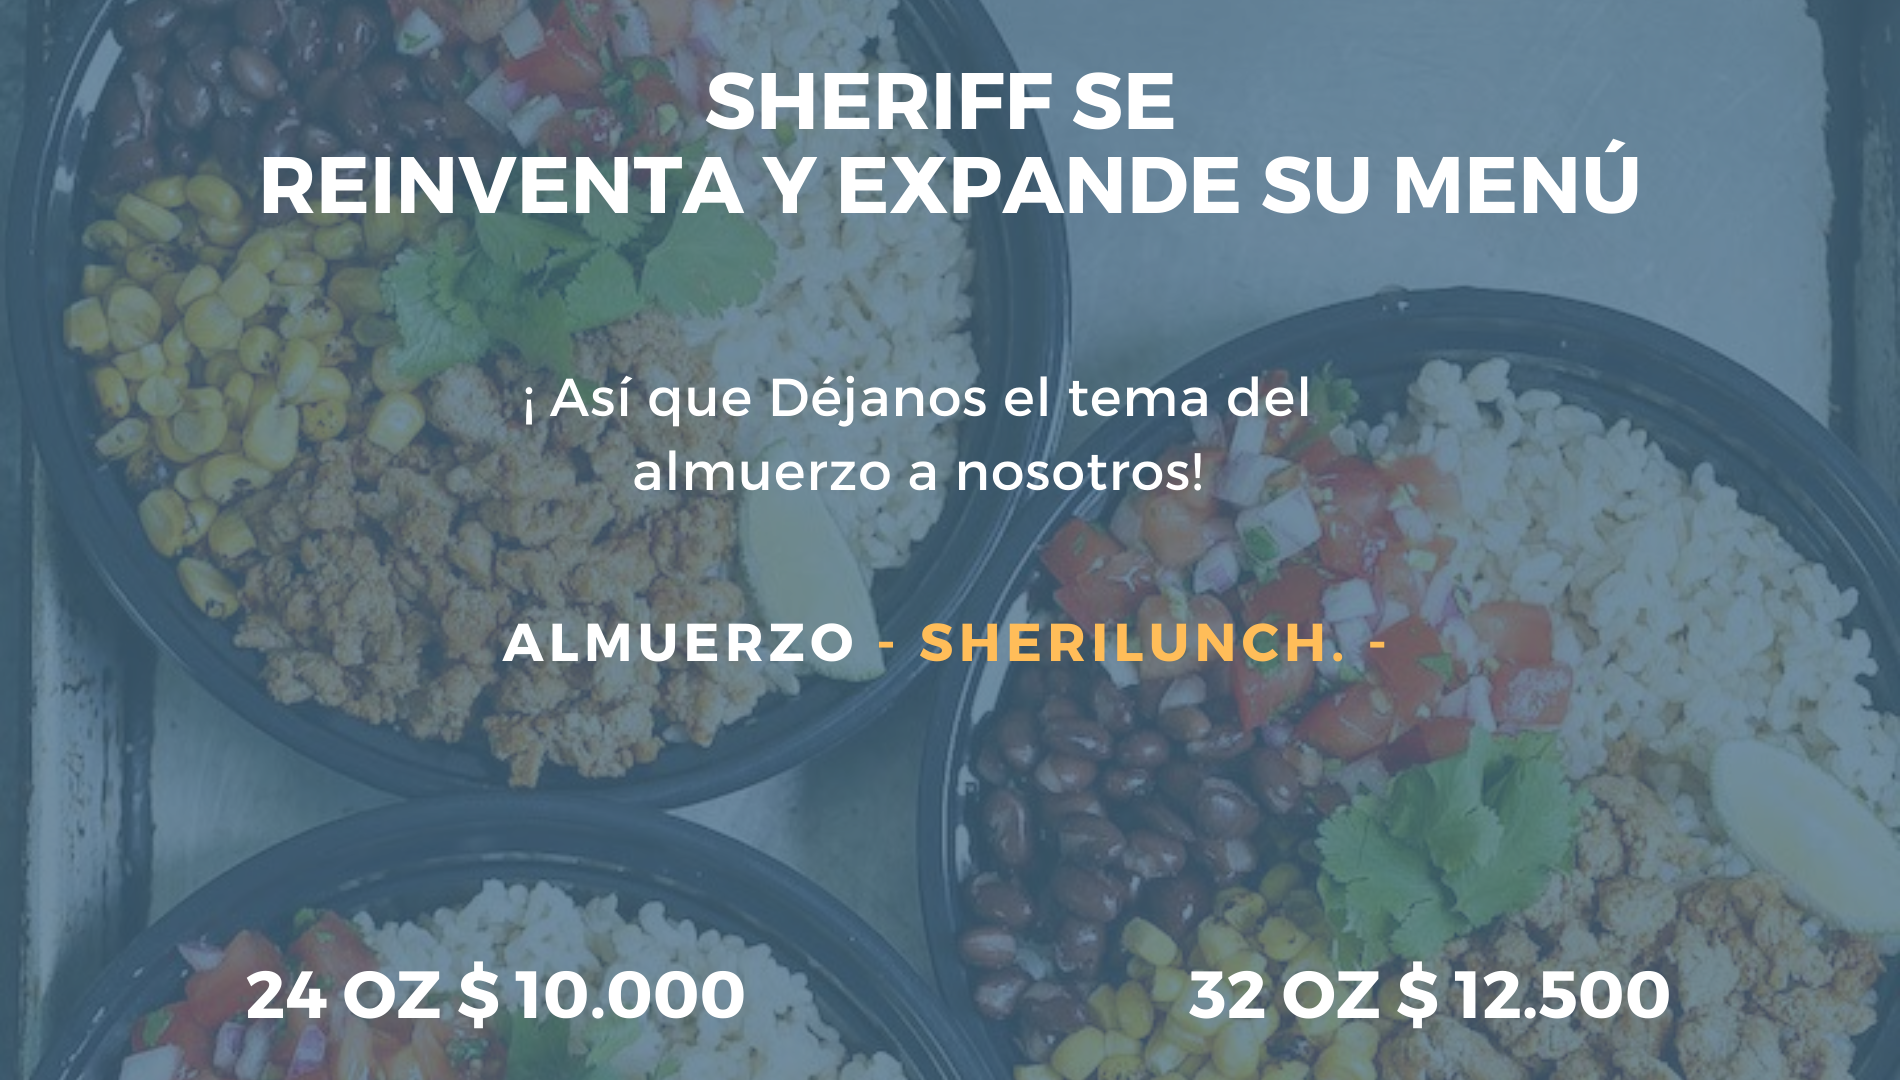
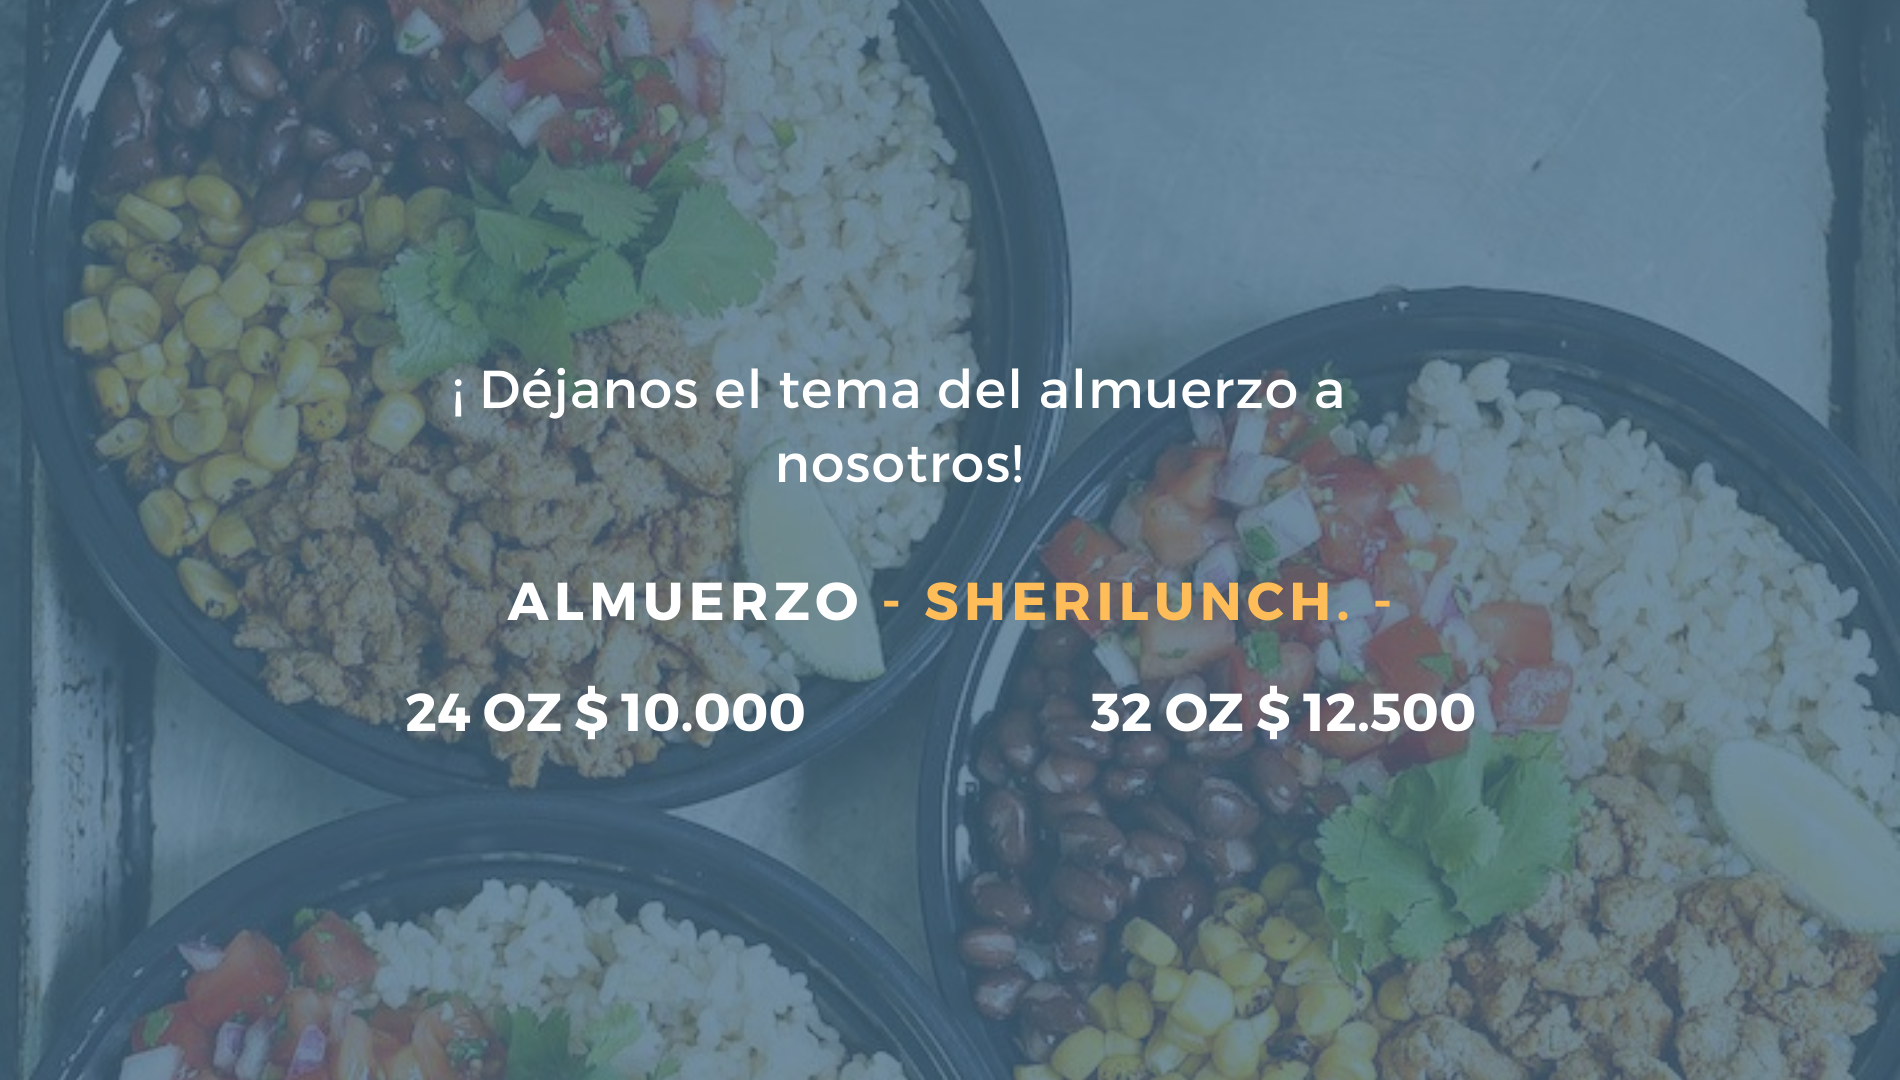
formulario y json de datos

diff --git a/js/main.js b/js/main.js
@@ -1,3 +1,8 @@
+//Importamos el Archivo tipo JSON 
+var menu=JSON.parse(menu)
+menu_diario=menu.menu
+console.log(menu_diario.d14052020)
+
 console.log('here')
 var dias = ["Lunes", "Martes", "Miercoles","Jueves","Viernes","Sábado","Domingo"];
 var meses=["Enero","Febrero","Marzo","Abril","Mayo","Junio","Julio","Agosto","Septiembre","Octubre","Noviembre","Diciembre"]
@@ -57,6 +62,22 @@ if(today_hora >= 10){
 
     $("#cuenta-atras").append(`Puedes hacer tu pedido para mañana hasta las 10 AM`)
     document.getElementById("dia").innerHTML = dias[tomorrow_day_week] +" " + tomorrow_d + " de " + meses[tomorrow_m-1] + " de " + tomorrow_y;
+
+    //Formatear los números para encontrar el menú
+
+    // escogemos el menu de mañana
+    var tomorrow_json=formDateToSearch(tomorrow_y,tomorrow_m,tomorrow_d)
+
+    console.log(menu_diario[tomorrow_json])
+    // imprimir el ménu diario
+    Opcion1titulo=menu_diario[tomorrow_json]['opcion1']['titulo']
+    Opcion2titulo=menu_diario[tomorrow_json]['opcion2']['titulo']
+    Opcion1ingredientes=menu_diario[tomorrow_json]['opcion1']['ingredientes']
+    Opcion2ingredientes=menu_diario[tomorrow_json]['opcion2']['ingredientes']
+   
+    imprimirMenúDiario(Opcion1titulo,Opcion2titulo,Opcion1ingredientes,Opcion2ingredientes)
+
+
 }
 
 else{
@@ -87,8 +108,23 @@ else{
       
 }, 1000);
 
-    $("#cuenta-atras").append(`Aun puedes hacer tu pedido para hoy hasta las 10 AM`)
+    $("#cuenta-atras").append(`Aún puedes hacer tu pedido para hoy hasta las 10 AM`)
     document.getElementById("dia").innerHTML = dias[today_day_week] +" " + today_d + " de " + meses[today_m-1] + " de " + today_y;
+
+    // escogemos el menu de hoy
+
+
+    var today_json=formDateToSearch(today_y,today_m,today_d)
+
+    console.log(menu_diario[today_json])
+    // imprimir el ménu diario
+    Opcion1titulo=menu_diario[today_json]['opcion1']['titulo']
+    Opcion2titulo=menu_diario[today_json]['opcion2']['titulo']
+    Opcion1ingredientes=menu_diario[today_json]['opcion1']['ingredientes']
+    Opcion2ingredientes=menu_diario[today_json]['opcion2']['ingredientes']
+   
+    imprimirMenúDiario(Opcion1titulo,Opcion2titulo,Opcion1ingredientes,Opcion2ingredientes)
+
 }
 
 
@@ -121,3 +157,43 @@ $(function() {
   });
 
 
+function imprimirMenúDiario(tituloOp1,tituloOp2,ingredientesOp1,ingredientesOp2){
+
+    $('#op1titulo').empty()
+    $('#op2titulo').empty()
+    $('#ingredientesOp1').empty()
+    $('#ingredientesOp2').empty()
+    $('#op1titulo').append(tituloOp1)
+    $('#op2titulo').append(tituloOp2)
+
+
+    ingredientesOp1.forEach(function(item){
+        $('#ingredientesOp1').append(`<li class="list-group-item">${item}</li>`)
+    })
+    ingredientesOp2.forEach(function(item){
+        $('#ingredientesOp2').append(`<li class="list-group-item">${item}</li>`)
+    })
+
+}
+
+function formDateToSearch(date_year,date_month,date_day){
+    date_year.toString()
+    if (date_month<10){
+        //agregar un cero
+        date_month.toString()
+        date_month= "0"+date_month
+    }
+    else{
+        date_month.toString()
+    }
+
+    if (date_day<10){
+        //agregar un cero
+        date_day.toString()
+        date_day= "0"+date_day
+    }
+    else{
+        date_day.toString()
+    }
+    return(`d${date_day}${date_month}${date_year}`)
+}

diff --git a/index.html b/index.html
@@ -66,17 +66,17 @@
           </div>
         </div>
         <!-- Slide Two - Set the background image for this slide in the line below -->
-        <div class="carousel-item" style="background-image: url('http://placehold.it/1900x1080')">
+        <div class="carousel-item" style="background-image: url('./assets/img/hamburgesas.png')">
           <div class="carousel-caption d-none d-md-block">
-            <h3>Second Slide</h3>
-            <p>This is a description for the second slide.</p>
+            <h3>Nuestras Hamburguesas</h3>
+            <p>Sheriff y Billy.</p>
           </div>
         </div>
         <!-- Slide Three - Set the background image for this slide in the line below -->
-        <div class="carousel-item" style="background-image: url('http://placehold.it/1900x1080')">
+        <div class="carousel-item" style="background-image: url('./assets/img/perros.png')">
           <div class="carousel-caption d-none d-md-block">
-            <h3>Third Slide</h3>
-            <p>This is a description for the third slide.</p>
+            <h3>Pide Nuestros Perros</h3>
+            <p>para un pequeño antojo.</p>
           </div>
         </div>
       </div>
@@ -120,9 +120,9 @@
         <div class="card h-100">
           <h4 class="card-header" style="background-color: #FDBC5A;">Opción 1 </h4>
           <div class="card-body">
-            <h5>Pollo en salsa de champiñones</h5>
+            <h5 id="op1titulo">Pollo en salsa de champiñones</h5>
             <p class="card-text">Ingredientes</p>
-            <ul class="list-group list-group-flush">
+            <ul class="list-group list-group-flush" id="ingredientesOp1" >
               <li class="list-group-item">Pollo en salsa de champiñon</li>
               <li class="list-group-item">Maíz</li>
               <li class="list-group-item">Aguacate</li>
@@ -137,9 +137,9 @@
         <div class="card h-100">
           <h4 class="card-header"style="background-color: #FDBC5A;">Opción 2 </h4>
           <div class="card-body">
-            <h5>Carne de Res a la parrilla</h5>
+            <h5 id="op2titulo">Carne de Res a la parrilla</h5>
             <p class="card-text">Ingredientes</p>
-            <ul class="list-group list-group-flush">
+            <ul class="list-group list-group-flush" id="ingredientesOp2">
               <li class="list-group-item">Carne de Res</li>
               <li class="list-group-item">Maíz</li>
               <li class="list-group-item">Aguacate</li>
@@ -234,6 +234,7 @@
 
   <!-- Bootstrap core JavaScript -->
   <script src="vendor/jquery/jquery.min.js"></script>
+  <script src="./menu/almuerzos.js"></script>
   <script src="./js/main.js"></script>
   <script src="vendor/bootstrap/js/bootstrap.bundle.min.js"></script>
 

diff --git a/menu/almuerzos.js b/menu/almuerzos.js
@@ -1,0 +1,65 @@
+// http://www.objgen.com/json?demo=true
+// // Empezamos a definir el json de almuerzos
+// menu
+//   13-05-2020
+//     opcion1
+//       titulo= Pechuga a la plancha
+//       ingredientes []= pechuga,arroz,maiz,queso
+//     opcion2
+//       titulo= Carne a la plancha
+//       ingredientes []= pechuga,arroz,maiz,queso
+
+//   14-05-2020
+//     opcion1
+//       titulo= Pechuga a la pizaiola
+//       ingredientes []= pechuga,arroz,maiz,queso
+//     opcion2
+//       titulo= Carne a la pizaiola
+//       ingredientes []= pechuga,arroz,maiz,queso
+
+var menu= `{
+    "menu": {
+      "d13052020": {
+        "opcion1": {
+          "titulo": "Pechuga a la plancha",
+          "ingredientes": [
+            "pechuga",
+            "arroz",
+            "maiz",
+            "queso"
+          ]
+        },
+        "opcion2": {
+          "titulo": "Carne a la plancha",
+          "ingredientes": [
+            "pechuga",
+            "arroz",
+            "maiz",
+            "queso"
+          ]
+        }
+      },
+      "d14052020": {
+        "opcion1": {
+          "titulo": "Pollo en salsa de champiñon",
+          "ingredientes": [
+            "Pollo en salsa de champiñon",
+            "Maíz",
+            "Aguacate",
+            "Papas Cabello de ángel",
+            "Arroz blanco"
+          ]
+        },
+        "opcion2": {
+          "titulo": "Carne de Res a la parrilla",
+          "ingredientes": [
+            "Carne de Res",
+            "Maíz",
+            "Aguacate",
+            "Papas Cabello de ángel",
+            "Arroz blanco"
+          ]
+        }
+      }
+    }
+  }`;

diff --git a/css/modern-business.css b/css/modern-business.css
@@ -26,19 +26,19 @@ body {
 } */
 
 .slide1{
-  background-image: url('../assets/img/almuerzo3.png');
+  background-image: url('../assets/img/almuerzo.png');
 }
 
-@media only screen and (max-width: 800px) {
+@media only screen and (max-width: 600px) {
   .slide1 {
-    background-image:none;
+    background-image:url('../assets/img/almuerzoIpap.png');
     background-color: lightblue;
   }
 }
 
 @media only screen and (max-width: 400px) {
   .slide1 {
-    background-image:url('../assets/img/almuerzo3.png');
+    background-image:url('../assets/img/almuerzocelular.png');
    
   }
 }
